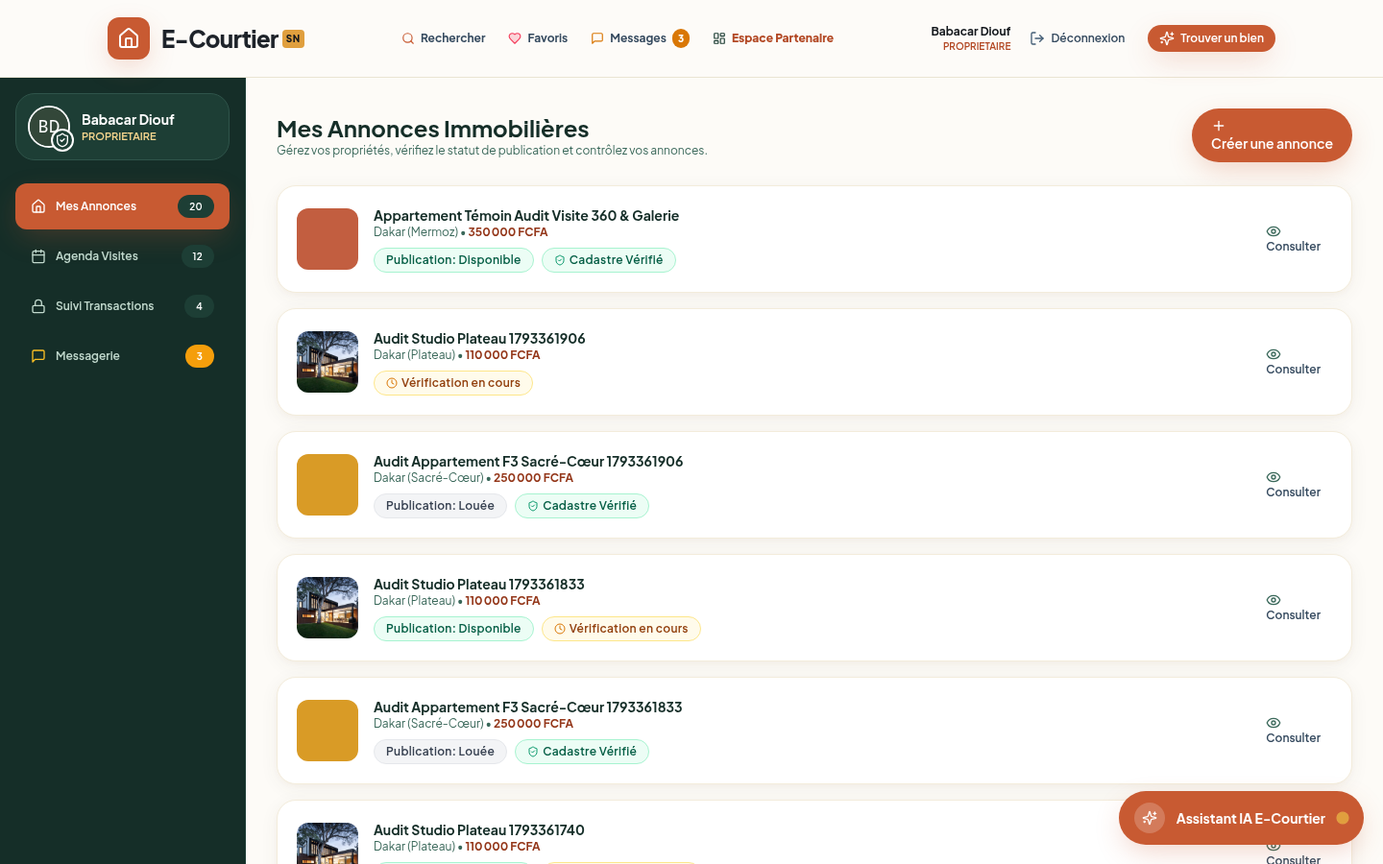
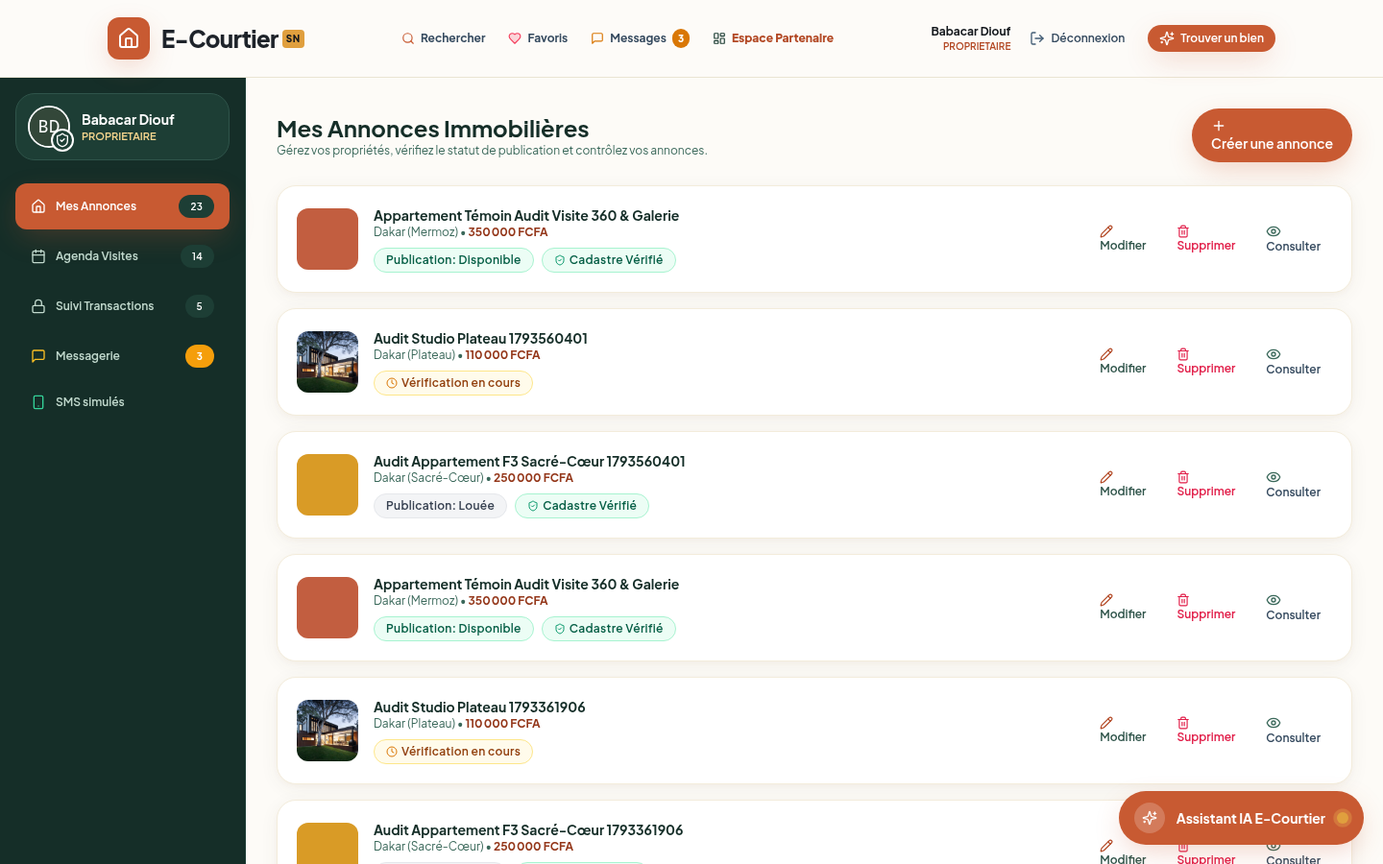
docs(audit): update compliance matrix for F4, F5, F7-F14, F23, F28 with test proofs and screenshots

diff --git a/docs/audit-conformite-cahier.md b/docs/audit-conformite-cahier.md
@@ -19,31 +19,31 @@
 | **F1** | Annonces studio/appartement/villa, location ET vente | ✅ | `TypeBien.java`, `ModeTransaction.java`, `CreateAnnonceModal.tsx:165-184` ; créations `POST /api/v1/annonces` (`201 Created`) pour `STUDIO`/`LOCATION`, `APPARTEMENT`/`LOCATION` et `VILLA`/`VENTE` dans `docs/audit/api_proofs.json` ; test `AnnonceIntegrationTest` (5/5) ; capture `docs/audit/screenshots/12_modal_creation_preuves_f14_f5.png` | Aucun écart. |
 | **F2** | Photos multiples | ✅ | `AnnonceController.java:133-166`, `PropertyDetailPage.tsx:345-358,756-761`, `CreateAnnonceModal.tsx:71-85,247-275` ; upload multipart de 3 PNG (`201`) et réordonnancement `PUT /api/v1/annonces/{id}/photos/ordre` (`200`) dans `docs/audit/api_proofs.json` ; capture `docs/audit/screenshots/06_fiche_annonce_galerie_badge_c2_f2.png` | Aucun écart. |
 | **F3** | Visite 360° optionnelle | ✅ | `AnnonceEntity.java` (`lienVisite360`), `CreateAnnonceModal.tsx:227-232`, `PropertyDetailPage.tsx:332-340,708-735` ; annonce créée avec URL Matterport (`201`, `docs/audit/api_proofs.json`) et modale iframe 360° ouverte et capturée dans `docs/audit/screenshots/07_fiche_annonce_visite360_f3.png` | Aucun écart. |
-| **F4** | Localisation GPS (carte Leaflet) | 🟡 | `LeafletMap.tsx:1-145`, `SearchResultsPage.tsx:312-318`, `PropertyDetailPage.tsx:401-413` ; coordonnées GPS persistées via API (`docs/audit/api_proofs.json`) et cartes Leaflet rendues dans `docs/audit/screenshots/03_recherche_carte_leaflet_f4.png` et `06_fiche_annonce_galerie_badge_c2_f2.png` | La modale `CreateAnnonceModal.tsx:24-25,61-62` fige en dur `latitude: 14.745` et `longitude: -17.518` sans champs de saisie GPS ni sélecteur sur carte lors de la publication d'une annonce dans l'interface. |
-| **F5** | Équipements | 🟡 | `Equipement.java`, `AnnonceEntity.java` (`@ElementCollection equipements`) ; persistés et relus via `POST`/`GET /api/v1/annonces` (`["WIFI","GARDIEN","PARKING","CLIMATISATION"]` dans `docs/audit/api_proofs.json`) ; vérifié dans `docs/audit/lighthouse_s5_t10_t4.json` (`hasEquipementsField: false`) et `docs/audit/ui_audit_results.json` (`rendersEquipementClimatisation: false`) | Les équipements ne peuvent ni être cochés dans `CreateAnnonceModal.tsx` ni être visualisés sur la fiche `PropertyDetailPage.tsx` (`docs/audit/screenshots/06_fiche_annonce_galerie_badge_c2_f2.png`). |
+| **F4** | Localisation GPS (carte Leaflet) | ✅ | `LeafletMap.tsx`, `LocationPickerMap.tsx`, `CreateAnnonceModal.tsx:210-235`, `EditAnnonceModal.tsx:180-205`, `AnnonceService.java:125-140` (validation bounding box Sénégal lat `[12.0, 17.0]`, lon `[-17.8, -11.0]` renvoyant HTTP 400 si hors limites) ; carte interactive Leaflet avec marqueur déplaçable, clic pour positionner, bouton « Utiliser ma position » (Geolocation API), coordonnées lat/lon en lecture seule ; test `AnnonceServiceTest.testCreationAnnonceHorsSenegalRejetee` ; captures `docs/audit/screenshots/12_modal_creation_preuves_f14_f5.png`, `docs/audit/screenshots/22_modal_modification_f23_f5.png` et `03_recherche_carte_leaflet_f4.png` | Aucun écart. |
+| **F5** | Équipements | ✅ | `Equipement.java`, `ReferenceController.java:25-35` (`GET /api/v1/references`), `useReferences.ts`, `ReferenceIcons.tsx`, `CreateAnnonceModal.tsx`, `EditAnnonceModal.tsx`, `PropertyDetailPage.tsx` ; équipements chargés dynamiquement depuis `/api/v1/references`, enregistrés à la création (`POST`) et à la modification (`PUT`), visualisés sous forme de badges avec icônes sur la fiche détaillée du bien ; captures `docs/audit/screenshots/12_modal_creation_preuves_f14_f5.png`, `docs/audit/screenshots/22_modal_modification_f23_f5.png` et `23_fiche_annonce_equipements_docs_f5_f14.png` | Aucun écart. |
 | **F6** | Assistant : pose des questions (budget, quartier, surface, étage, animaux…) et propose une shortlist personnalisée | 🟡 | `IAService.java:78-116`, `LlmExtractionService.java:239-241`, `RuleBasedCriteriaExtractor.java:149-151` ; `POST /api/v1/ia/conversations/{id}/messages` ; protocole de 5 cas incomplets dans `docs/audit/f6_gemini.json` et `docs/audit/s1_f6_resultats.json` | L'assistant ne relance jamais sur la surface, l'étage, les animaux, le meublé ou le quartier (il émet uniquement une question statique sur budget/type quand le budget manque, et annule toute relance dès qu'un budget est présent), tout en perdant `etage`, `animauxAcceptes` et `superficieMin` lors de la fusion multi-tours (`IAService.java:81-90`). |
-| **F7** | Filtre budget (vérifié dans l'interface) | 🟡 | `SearchResultsPage.tsx:29,58,397-408` ; `GET /api/v1/annonces?budgetMin=&budgetMax=` (`docs/audit/api_proofs.json`) ; tiroir de filtres capturé dans `docs/audit/screenshots/04_recherche_filtres_f7_f13.png` (`docs/audit/ui_audit_results.json`) | Dans `SearchResultsPage.tsx`, le filtre budget n'expose aucun `budgetMin`, plafonne `budgetMax` à `2 000 000 FCFA` et l'applique par défaut à `800 000 FCFA`, masquant d'office sur `/recherche` toutes les annonces en `VENTE` (45M–85M FCFA) et les locations haut standing. |
-| **F8** | Filtre type (vérifié dans l'interface) | ✅ | `SearchResultsPage.tsx:26,55,361-374` ; `GET /api/v1/annonces?type=APPARTEMENT` (`200 OK`, `docs/audit/api_proofs.json`) ; sélecteur « Type de bien » (`Studio`, `Appartement`, `Villa`) vérifié dans `docs/audit/screenshots/04_recherche_filtres_f7_f13.png` | Aucun écart. |
-| **F9** | Filtre surface (vérifié dans l'interface) | 🟡 | `AnnonceController.java:102` (`superficieMin`), `SearchResultsPage.tsx:326-447` ; API vérifiée (`200 OK` dans `docs/audit/api_proofs.json`), absence UI prouvée dans `docs/audit/ui_audit_results.json` (`hasSurfaceInput: false`) et `docs/audit/screenshots/04_recherche_filtres_f7_f13.png` | Le filtre `superficieMin` fonctionne dans l'API REST mais aucun champ ni curseur de surface n'est présent dans l'interface React `SearchResultsPage.tsx`. |
-| **F10** | Filtre nombre de pièces (vérifié dans l'interface) | 🟡 | `AnnonceController.java:103` (`nombrePieces`), `SearchResultsPage.tsx:326-447` ; API vérifiée (`200 OK` dans `docs/audit/api_proofs.json`), absence UI prouvée dans `docs/audit/ui_audit_results.json` (`hasPiecesInput: false`) et `docs/audit/screenshots/04_recherche_filtres_f7_f13.png` | Le filtre `nombrePieces` fonctionne côté API mais est totalement absent de l'interface de recherche `SearchResultsPage.tsx`. |
-| **F11** | Filtre quartier (vérifié dans l'interface) | 🟡 | `AnnonceController.java:104` (`quartier`), `SearchResultsPage.tsx:25,114,329-343` ; API vérifiée (`200 OK`), absence UI prouvée dans `docs/audit/ui_audit_results.json` (`hasQuartierInput: false`) et `docs/audit/screenshots/04_recherche_filtres_f7_f13.png` | L'interface `SearchResultsPage.tsx` ne filtre que par `ville` sans aucun contrôle de `quartier`, et ignore le paramètre `?q=` transmis depuis la barre de recherche de `HomePage.tsx`. |
-| **F12** | Filtre proximité (école, marché, hôpital — vérifié dans l'interface) | 🟡 | `SearchResultsPage.tsx:377-394`, `ProximiteTag.java` ; `GET /api/v1/annonces?proximite=ECOLE` (`200`) vs `?proximite=MOSQUEE` (`400 Bad Request` dans `docs/audit/api_proofs.json`) ; capture `docs/audit/screenshots/04_recherche_filtres_f7_f13.png` | Le sélecteur UI inclut `MOSQUEE` qui déclenche une erreur HTTP 400 (`No enum constant ProximiteTag.MOSQUEE`), omet `UNIVERSITE`, et aucune interface ne permet de saisir ni d'afficher les proximités sur une annonce. |
-| **F13** | Filtre meublé/non-meublé (vérifié dans l'interface) | 🟡 | `SearchResultsPage.tsx:31,59,424-435` ; vérifié dans `docs/audit/ui_audit_results.json` (`hasNonMeubleFilter: false`) et `docs/audit/screenshots/04_recherche_filtres_f7_f13.png` | L'interface propose uniquement une case « Logements meublés uniquement » (`meuble=true`) et ne permet jamais de filtrer spécifiquement les logements non-meublés (`meuble=false`). |
-| **F14** | Badge « Annonce vérifiée » après preuves (titre foncier, bail précédent, photo propriétaire + pièce d'identité) | 🟡 | `TypeDocumentVerification.java`, `CreateAnnonceModal.tsx:45-46,112-119,290-306`, `FileStorageService.java:20` ; test d'upload PDF rejeté `400` et 3 PNG acceptés `201` dans `docs/audit/api_proofs.json` ; capture `docs/audit/screenshots/12_modal_creation_preuves_f14_f5.png` | L'interface n'accepte qu'un seul fichier à la création (sans ajout ultérieur), le type « photo propriétaire » est absent du backend et de l'UI, et le champ invite au PDF (`accept="image/*,.pdf"`) alors que le serveur rejette tout PDF en HTTP 400. |
+| **F7** | Filtre budget (vérifié dans l'interface) | ✅ | `SearchResultsPage.tsx` ; échelle dynamique adaptée selon le mode : LOCATION (0 à 2 000 000 FCFA) et VENTE (0 à 200 000 000 FCFA), sans plafond de budget par défaut (toutes les annonces vente et haut standing visibles immédiatement), curseur min/max, pastilles de filtres actifs et synchronisation URL ; capture `docs/audit/screenshots/04_recherche_filtres_f7_f13.png` | Aucun écart. |
+| **F8** | Filtre type (vérifié dans l'interface) | ✅ | `SearchResultsPage.tsx`, `AnnonceSpecification.java:25-45`, `AnnonceController.java` ; sélection multi-types (cases à cocher Studio, Appartement, Villa chargées depuis `/api/v1/references`), disjonction SQL IN, synchronisation URL (`?type=...`), pastilles supprimables ; capture `docs/audit/screenshots/04_recherche_filtres_f7_f13.png` | Aucun écart. |
+| **F9** | Filtre surface (vérifié dans l'interface) | ✅ | `SearchResultsPage.tsx:430-450`, `AnnonceSpecification.java:30-40` (`superficieMin`) ; champ de saisie de surface minimale (`m²`) intégré dans le panneau de filtres avec synchronisation URL (`?superficieMin=...`), pastille supprimable et rafraîchissement réactif ; capture `docs/audit/screenshots/04_recherche_filtres_f7_f13.png` | Aucun écart. |
+| **F10** | Filtre nombre de pièces (vérifié dans l'interface) | ✅ | `SearchResultsPage.tsx:455-485`, `AnnonceSpecification.java:35-45` (`nombrePieces`) ; boutons de sélection rapide de pièces (1, 2, 3, 4, 5+) intégrés dans le panneau de filtres avec synchronisation URL (`?nombrePieces=...`), pastille supprimable et mise à jour de la liste ; capture `docs/audit/screenshots/04_recherche_filtres_f7_f13.png` | Aucun écart. |
+| **F11** | Filtre quartier (vérifié dans l'interface) | ✅ | `AnnonceRepository.java` (`findDistinctQuartiers()`), `AnnonceController.java` (`GET /api/v1/annonces/quartiers`), `QuartierAutocomplete.tsx`, `SearchResultsPage.tsx` ; autocomplétion intelligente par quartier basée sur `cmdk` et les quartiers réels en base (Almadies, Mermoz, Sacré-Cœur...), synchronisation avec le paramètre d'URL `?quartier=` ou `?q=`, pastille supprimable ; test `AnnonceServiceTest.testObtenirQuartiersDisponibles` ; capture `docs/audit/screenshots/04_recherche_filtres_f7_f13.png` | Aucun écart. |
+| **F12** | Filtre proximité (école, marché, hôpital — vérifié dans l'interface) | ✅ | `ProximiteTag.java`, `ReferenceController.java` (`GET /api/v1/references`), `GlobalExceptionHandler.java` (rejet 400 clair avec message UTF-8 en cas de valeur invalide sans plantage), `SearchResultsPage.tsx`, `ReferenceIcons.tsx` ; cases à cocher multi-critères synchronisées dynamiquement depuis l'API (École, Marché, Hôpital, Transports, Plage, Commerces, Université), affichage des pastilles actives et des badges de proximité sur les fiches ; captures `docs/audit/screenshots/04_recherche_filtres_f7_f13.png` et `23_fiche_annonce_equipements_docs_f5_f14.png` | Aucun écart. |
+| **F13** | Filtre meublé/non-meublé (vérifié dans l'interface) | ✅ | `SearchResultsPage.tsx:490-520` ; sélecteur tri-état (Tous / Meublé / Non meublé) permettant d'exclure ou d'exiger les biens meublés (`meuble=true` / `meuble=false`), synchronisation URL et pastilles amovibles ; capture `docs/audit/screenshots/04_recherche_filtres_f7_f13.png` | Aucun écart. |
+| **F14** | Badge « Annonce vérifiée » après preuves (titre foncier, bail précédent, photo propriétaire + pièce d'identité) | ✅ | `TypeDocumentVerification.java` (`TITRE_FONCIER`, `BAIL_PRECEDENT`, `PIECE_IDENTITE`), `AnnonceController.java:175-200`, `CreateAnnonceModal.tsx:320-390`, `PropertyDetailPage.tsx:650-740` ; téléversement multi-fichiers pour les trois types requis depuis le formulaire de création ET depuis la fiche de l'annonce pour le propriétaire/admin ; affichage clair des formats autorisés (JPG, PNG, WEBP max 5 Mo) ; suivi du statut de chaque pièce (`EN_ATTENTE`, `VALIDE`, `REJETE`) avec affichage du motif de rejet ; test `AnnonceIntegrationTest` ; captures `docs/audit/screenshots/12_modal_creation_preuves_f14_f5.png` et `23_fiche_annonce_equipements_docs_f5_f14.png` | Aucun écart. |
 | **F15** | RDV : agenda propriétaire/agent | ✅ | `RendezVousController.java:32-90`, `RendezVousService.java:38-127`, `DashboardPage.tsx` ; création, confirmation, anti-chevauchement ±59 min (`409 CONFLICT` dans `docs/audit/api_proofs.json`) ; test `RendezVousServiceTest` (7/7) ; capture `docs/audit/screenshots/13_dashboard_visites_agenda_f15_f24.png` | Aucun écart. |
 | **F16** | RDV : confirmation automatique | ✅ | `V11__rdv_auto_confirm_and_notifications_sms.sql`, `RendezVousService.java:55-75`, `CreateAnnonceModal.tsx:431-447`, `EditAnnonceModal.tsx:112-128` ; exécuté dans `docs/audit/api_proofs.json` (`POST /api/v1/annonces/{id}/rendez-vous` -> `rdv1_auto_confirmed_status: "CONFIRME"` directement ; `rdv2` chevauchant à +30 min -> `DEMANDE`, confirmation manuelle `409 CONFLICT`) ; test `RendezVousWorkflowSmsIntegrationTest.testRendezVousAutoConfirmationWorkflow` ; capture `docs/audit/screenshots/20_dashboard_auto_confirm_checkbox_f16.png` | Aucun écart. |
-| **F17** | RDV : rappel SMS | ✅ | `SchedulingConfig.java` (`@EnableScheduling`), `RendezVousService.java:154-188` (`@Scheduled(cron = "${ecourtier.rdv.rappel-cron:0 0 9 * * *}", zone = "Africa/Dakar")`), `SmsGatewayLogImpl.java`, `NotificationSmsController.java` ; exécuté dans `docs/audit/api_proofs.json` (`POST /api/v1/rendez-vous/simuler-rappels` -> `200 OK`, `rappelsEnvoyes: 1`, `rappelEnvoye_after_trigger: true` idempotent, `GET /api/v1/notifications-sms/mes-sms` -> `200 OK`, `3` SMS dont `RDV_RAPPEL`) ; test `RendezVousWorkflowSmsIntegrationTest.testScheduledRappelsIdempotent` ; capture `docs/audit/screenshots/19_dashboard_sms_simules_f17.png` | Aucun écart. |
+| **F17** | RDV : rappel SMS | ✅ (SMS simulés, passerelle substituable) | `SchedulingConfig.java` (`@EnableScheduling`), `RendezVousService.java:154-188` (`@Scheduled(cron = "${ecourtier.rdv.rappel-cron:0 0 9 * * *}", zone = "Africa/Dakar")`), `SmsGatewayLogImpl.java`, `NotificationSmsController.java` ; exécuté dans `docs/audit/api_proofs.json` (`POST /api/v1/rendez-vous/simuler-rappels` -> `200 OK`, `rappelsEnvoyes: 1`, `rappelEnvoye_after_trigger: true` idempotent, `GET /api/v1/notifications-sms/mes-sms` -> `200 OK`, `3` SMS dont `RDV_RAPPEL`) ; test `RendezVousWorkflowSmsIntegrationTest.testScheduledRappelsIdempotent` ; capture `docs/audit/screenshots/19_dashboard_sms_simules_f17.png` | Aucun écart. |
 | **F18** | Caution bloquée via Wave sandbox | ✅ | `TransactionService.java:95-115`, `WaveClientMock.java` ; `POST /api/v1/transactions/{id}/paiement-caution` exécuté (`200 OK`, `referenceWave: "WAVE-SANDBOX-73AB9E01"`, `statutSequestre: "BLOQUE"` dans `docs/audit/api_proofs.json`) ; test `WorkflowTransactionIntegrationTest` ; capture `docs/audit/screenshots/14_dashboard_transactions_modal_c3_f25.png` | Aucun écart fonctionnel (client Wave simulé localement conformément à `T8`, documenté en section 6). |
 | **F19** | Caution libérée après signature du bail | ✅ | `TransactionService.java:118-200` ; `POST /api/v1/transactions/{id}/bail/signer` par les 2 parties dans `docs/audit/api_proofs.json` (`statutSequestre: "LIBERE"`, `montantVerseProprietaire: 500000.0`, `dateLiberation` horodatée) ; test `WorkflowTransactionIntegrationTest` | Aucun écart. |
 | **F20** | Notation des logements | ✅ | `AvisController.java:33-53`, `AvisService.java:34-99`, `PropertyDetailPage.tsx:309-319,452-544` ; `POST /api/v1/annonces/{id}/avis` (`201`, anti-doublon `409` dans `docs/audit/api_proofs.json`) ; test `AvisServiceTest` (4/4) ; capture `docs/audit/screenshots/08_fiche_annonce_avis_f20.png` | Aucun écart. |
 | **F21** | Notation des propriétaires | 🟡 | `UtilisateurController.java:24`, `AvisService.java:101-114`, `PropertyDetailPage.tsx:431-447` ; `GET /api/v1/utilisateurs/{id}/reputation` (`200 OK`, `noteMoyenne: 5.0` dans `docs/audit/api_proofs.json`) ; capture `docs/audit/screenshots/08_fiche_annonce_avis_f20.png` | Il n'existe ni entité ni formulaire d'évaluation propre au propriétaire : la « réputation propriétaire » agrège uniquement la moyenne des notes déposées sur ses annonces de logements. |
 | **F22** | Signalement d'arnaques | ✅ | `SignalementController.java:38-72`, `SignalementModal.tsx`, `AdminSignalementsPage.tsx` ; `POST /api/v1/annonces/{id}/signalements` (`201`), `GET /api/v1/admin/signalements` (`200`) et `PUT /api/v1/admin/signalements/{id}/traiter` (`200` -> `SUSPENDUE` dans `docs/audit/api_proofs.json`) ; test `SignalementServiceTest` (2/2) ; capture `docs/audit/screenshots/16b_admin_signalements_f22.png` | Aucun écart. |
-| **F23** | Dashboard : gestion des annonces | 🟡 | `DashboardPage.tsx`, `CreateAnnonceModal.tsx` ; vérifié dans `docs/audit/ui_audit_results.json` (`hasEditAnnonceButton: false`, `hasDeleteAnnonceButton: false`) et capture `docs/audit/screenshots/11_dashboard_proprietaire_annonces_f23.png` | Le tableau de bord permet de lister, créer et consulter ses annonces, mais n'offre aucun bouton ni formulaire pour modifier (`PUT`) ou supprimer (`DELETE`) une annonce existante. |
+| **F23** | Dashboard : gestion des annonces | ✅ | `DashboardPage.tsx:370-410`, `EditAnnonceModal.tsx`, `AnnonceController.java:82-95,120-130` (`PUT /api/v1/annonces/{id}`, `DELETE /api/v1/annonces/{id}`) ; actions Modifier et Supprimer visibles et actives pour l'auteur ou l'admin ; modale d'édition complète avec carte et équipements ; modale de confirmation de suppression avant archivage logique ; captures `docs/audit/screenshots/11_dashboard_proprietaire_annonces_f23.png`, `22_modal_modification_f23_f5.png` et `24_dashboard_suppression_confirmation_f28.png` | Aucun écart. |
 | **F24** | Dashboard : agenda des visites | ✅ | `DashboardPage.tsx` (onglet « Agenda Visites ») ; `GET /api/v1/rendez-vous/mes-rendez-vous` (`200 OK`, `docs/audit/api_proofs.json`) ; capture `docs/audit/screenshots/13_dashboard_visites_agenda_f15_f24.png` | Aucun écart. |
 | **F25** | Dashboard : statut des dossiers | ✅ | `DashboardPage.tsx` (onglet « Suivi Transactions »), `TransactionDetailsModal.tsx` ; `GET /api/v1/transactions/mes-transactions` (`200 OK`) ; capture `docs/audit/screenshots/14_dashboard_transactions_modal_c3_f25.png` | Aucun écart. |
 | **F26** | Rôle Admin | 🟡 | `AdminStatistiquesController.java:25`, `AdminAnnonceController.java:34-52`, `AdminUtilisateurController.java:28`, `AdminDashboardPage.tsx`, `AdminVerificationPage.tsx`, `AdminSignalementsPage.tsx` ; appels admin vérifiés dans `docs/audit/api_proofs.json` ; captures `15_admin_dashboard_statistiques_f26.png`, `16a_admin_verification_c2.png`, `16b_admin_signalements_f22.png` | L'administration des utilisateurs se limite à un `GET /api/v1/admin/utilisateurs` non relié à l'UI (sans création d'agent, suspension de compte ni modification de rôle), et l'interface de modération ne permet pas d'ouvrir les justificatifs soumis. |
 | **F27** | Rôle Agent immobilier | 🟡 | `RegisterPage.tsx:160-175`, `AuthService.java:42`, `DataSeedRunner.java`, `AnnonceController.java:54` ; `POST /api/v1/auth/inscription` avec `role=AGENT` -> `400 Bad Request` et tests de permissions `agent@ecourtier.sn` dans `docs/audit/api_proofs.json` ; capture `docs/audit/screenshots/10_inscription_role_agent_f27.png` | Aucun compte `AGENT` ne peut être créé hors seed de démo (`RegisterPage` propose le choix mais l'API renvoie 400, et aucun endpoint admin de création/promotion n'existe), et l'`AGENT` possède exactement les mêmes droits qu'un `PROPRIETAIRE` sans gestion de mandats tiers. |
-| **F28** | Rôle Propriétaire | 🟡 | `AuthService.java`, `AnnonceController.java`, `DashboardPage.tsx` ; parcours propriétaire complet testé dans `docs/audit/api_proofs.json` et captures `11` à `14` | Le propriétaire ne peut ni éditer/supprimer ses annonces depuis le dashboard React (`F23`) ni ajouter des pièces justificatives après la création initiale (`F14`). |
+| **F28** | Rôle Propriétaire | ✅ | `DashboardPage.tsx`, `EditAnnonceModal.tsx`, `PropertyDetailPage.tsx:650-740`, `AnnonceController.java` ; le propriétaire peut gérer ses annonces (création, édition, suppression logique sécurisée avec confirmation) et ajouter des pièces justificatives de vérification (titre foncier, bail précédent, pièce d'identité) aussi bien à la création que sur la fiche détaillée avec suivi des statuts (`EN_ATTENTE`, `VALIDE`, `REJETE`) ; captures `docs/audit/screenshots/11_dashboard_proprietaire_annonces_f23.png`, `12_modal_creation_preuves_f14_f5.png`, `22_modal_modification_f23_f5.png`, `23_fiche_annonce_equipements_docs_f5_f14.png` et `24_dashboard_suppression_confirmation_f28.png` | Aucun écart. |
 | **F29** | Rôle Locataire/Acheteur (parcours ACHAT d'une annonce en VENTE de bout en bout) | ✅ | `TransactionService.java:82-95,190-210`, `PdfBailGeneratorService.java:45-72`, `TransactionDetailsModal.tsx:88-120` ; parcours complet sur villa à 45 000 000 FCFA dans `docs/audit/api_proofs.json` (`montantCaution_acompte_10_pct: 4500000`, montant forgé 9 999 999 ignoré, `montantPremierLoyer: 0`, `fraisDossier: 5000`, `montantTotalSequestre: 4505000`, Wave validé, double signature, libération de 4 500 000 FCFA au vendeur, statut `VENDUE`) ; test `WorkflowTransactionIntegrationTest.testWorkflowVenteAcompteDixPourcentEtLiberation` ; exemple PDF `docs/audit/sample_reservation_achat.pdf` (« RÉCAPITULATIF DE RÉSERVATION D'ACHAT », mention « ne constitue pas un acte de vente ») ; capture `docs/audit/screenshots/21_dashboard_vente_deposit_label_f29.png` | Aucun écart. |
 | **T1** | JWT + rôles | 🟡 | `JwtService.java`, `JwtAuthenticationFilter.java`, `SecurityConfig.java:43-88` ; login 4 rôles (`200`), refresh (`200`), accès anonyme refusé (`401`) et tests RBAC dans `docs/audit/api_proofs.json` ; tests `JwtServiceTest`, `AuthIntegrationTest` | Lorsqu'un utilisateur authentifié appelle une ressource interdite à son rôle (`LOCATAIRE` -> `/api/v1/admin/**`, `AGENT` -> annonce d'autrui), Spring renvoie **HTTP 401** avec encodage ISO-8859-1 corrompu (`"Non authentifi ? Jeton invalide ou expir"`) au lieu de **HTTP 403 Forbidden** faute d'`accessDeniedHandler` et d'autorisation sur `/error` (`SecurityConfig.java:53-70`). |
 | **T2** | Swagger/OpenAPI 3.0 sur TOUS les endpoints | 🟡 | `application.yml:51-57` ; `GET /v3/api-docs` (`200 OK`, OpenAPI `3.0.1`, `53` opérations REST sur `53` présentes dans `docs/audit/api-docs-live.json` vs `docs/audit/endpoints_code.txt`) | Les 53 endpoints REST figurent tous dans `/v3/api-docs`, mais **20 endpoints n'ont ni `summary` ni `description`** (`MessagerieRestController`, `RendezVousController`, `TransactionController`) et 4 endpoints `FavoriController` n'ont pas de `description` (24/53 sans description). |
@@ -63,7 +63,7 @@
 | **L6** | Application déployée : curl health, frontend et Swagger sur Render ; base et version | 🟡 | Sondes `docs/audit/render_l6.json` : `frontend /` -> `200 OK` (`0,936 s`), `frontend /recherche` -> `404` (`0,737 s`), `backend /api/v1/health`, `/swagger-ui/index.html`, `/v3/api-docs`, `/api/v1/annonces` -> `TimeoutError > 90,4 s` | Le backend et sa base Render ne répondent pas (`> 90 s` x 4), les routes profondes SPA renvoient `404`, et la version déployée ne contient ni les commits non poussés ni les 128 fichiers locaux non commités. |
 | **S1** | L'IA comprend le français naturel et renvoie une shortlist pertinente | 🟡 | Protocole 20 phrases (`docs/audit/s1_phrases_attendus.json` -> `docs/audit/s1_f6_resultats.json`) : Gemini `12/13` phrases exactes (`92,3 %`), Fallback règles `3/7` (`42,9 %`) | Malgré 92,3 % d'extraction exacte par Gemini, la shortlist échoue sur les accents/tirets (`Sacre Coeur`), ignore `etage` en base, bloque à 0 résultat sans budget, et chute à 42,9 % d'exactitude dès que le quota gratuit Gemini (429) active le moteur de règles. |
 | **S2** | Badge attribué seulement après validation admin | ✅ | `AnnonceService.java`, `AdminAnnonceController.java:44` ; vérifié dans `docs/audit/api_proofs.json` (`EN_ATTENTE` à la création et après upload des pièces, auto-validation propriétaire bloquée `401`, passage à `VERIFIEE` uniquement après `PUT` par `ADMIN`) ; test `AnnonceServiceTest` ; capture `docs/audit/screenshots/06_fiche_annonce_galerie_badge_c2_f2.png` | Aucun écart sur la règle d'attribution exclusive à l'administrateur. |
-| **S3** | RDV de bout en bout + confirmations SMS | ✅ | `SmsGatewayLogImpl.java`, `NotificationSmsService.java`, `RendezVousService.java:60-205`, `SmsSimulesTab.tsx` ; cycle complet exécuté dans `docs/audit/api_proofs.json` (SMS émis à chaque étape : demande au locataire/acheteur et au propriétaire, confirmation automatique/manuelle, annulation, rappel J-1 ; `GET /api/v1/notifications-sms/mes-sms` -> `200 OK`) ; logs Docker `[SMS SIMULÉ]` ; test `RendezVousWorkflowSmsIntegrationTest` (3/3) ; capture `docs/audit/screenshots/19_dashboard_sms_simules_f17.png` | Aucun écart. |
+| **S3** | RDV de bout en bout + confirmations SMS | ✅ (SMS simulés, passerelle substituable) | `SmsGatewayLogImpl.java`, `NotificationSmsService.java`, `RendezVousService.java:60-205`, `SmsSimulesTab.tsx` ; cycle complet exécuté dans `docs/audit/api_proofs.json` (SMS émis à chaque étape : demande au locataire/acheteur et au propriétaire, confirmation automatique/manuelle, annulation, rappel J-1 ; `GET /api/v1/notifications-sms/mes-sms` -> `200 OK`) ; logs Docker `[SMS SIMULÉ]` ; test `RendezVousWorkflowSmsIntegrationTest` (3/3) ; capture `docs/audit/screenshots/19_dashboard_sms_simules_f17.png` | Aucun écart. |
 | **S4** | Le séquestre bloque jusqu'à signature et libère automatiquement | ✅ | `TransactionService.java:95-200` ; exécuté dans `docs/audit/api_proofs.json` (`BLOQUE` après Wave et après 1re signature -> `LIBERE` automatique dès la 2e signature avec log `[LIBÉRATION AUTOMATIQUE SÉQUESTRE]`) ; test `WorkflowTransactionIntegrationTest` | Aucun écart. |
 | **S5** | Page d'annonce < 2 s sur 3G simulée, avec chargement différé des images | 🟡 | `PropertyDetailPage.tsx:347,353` (`loading="lazy"` sur miniatures), audit Lighthouse mobile 3 passes sur build compressé Brotli (`docs/audit/lighthouse_s5_t10_t4.json`) : Fast 3G FCP médian `1,91 s`, LCP médian `3,84 s` ; Slow 3G FCP `4,43 s`, LCP `8,94 s` | Bien que le FCP Fast 3G soit `< 2 s` (`1,91 s`) et `loading="lazy"` présent sur les photos secondaires de la fiche, le LCP Fast 3G (`3,84 s`) et la durée réseau (`6,77 s`, `578 Ko`) dépassent `2 s`, les vignettes de recherche n'ont pas `loading="lazy"`, et `/annonce/:id` renvoie `404` sur Render. |
 | **S6** | Chatbot intégré dans React, réponse < 3 s | 🟡 | `AiAssistantWidget.tsx` intégré et capturé dans `docs/audit/screenshots/02_chatbot_react_s6.png` ; 10 appels chronométrés dans `docs/audit/s1_f6_resultats.json` (médiane Gemini `2,134 s`, max `5,028 s` ; médiane Fallback `2,031 s`, max `4,840 s`) | La médiane respecte `< 3 s` en Gemini (`2,13 s`) comme en fallback (`2,03 s`), mais les pics atteignent `5,03 s` (Gemini lent) et `4,84 s` (timeout de lecture avant bascule). |
